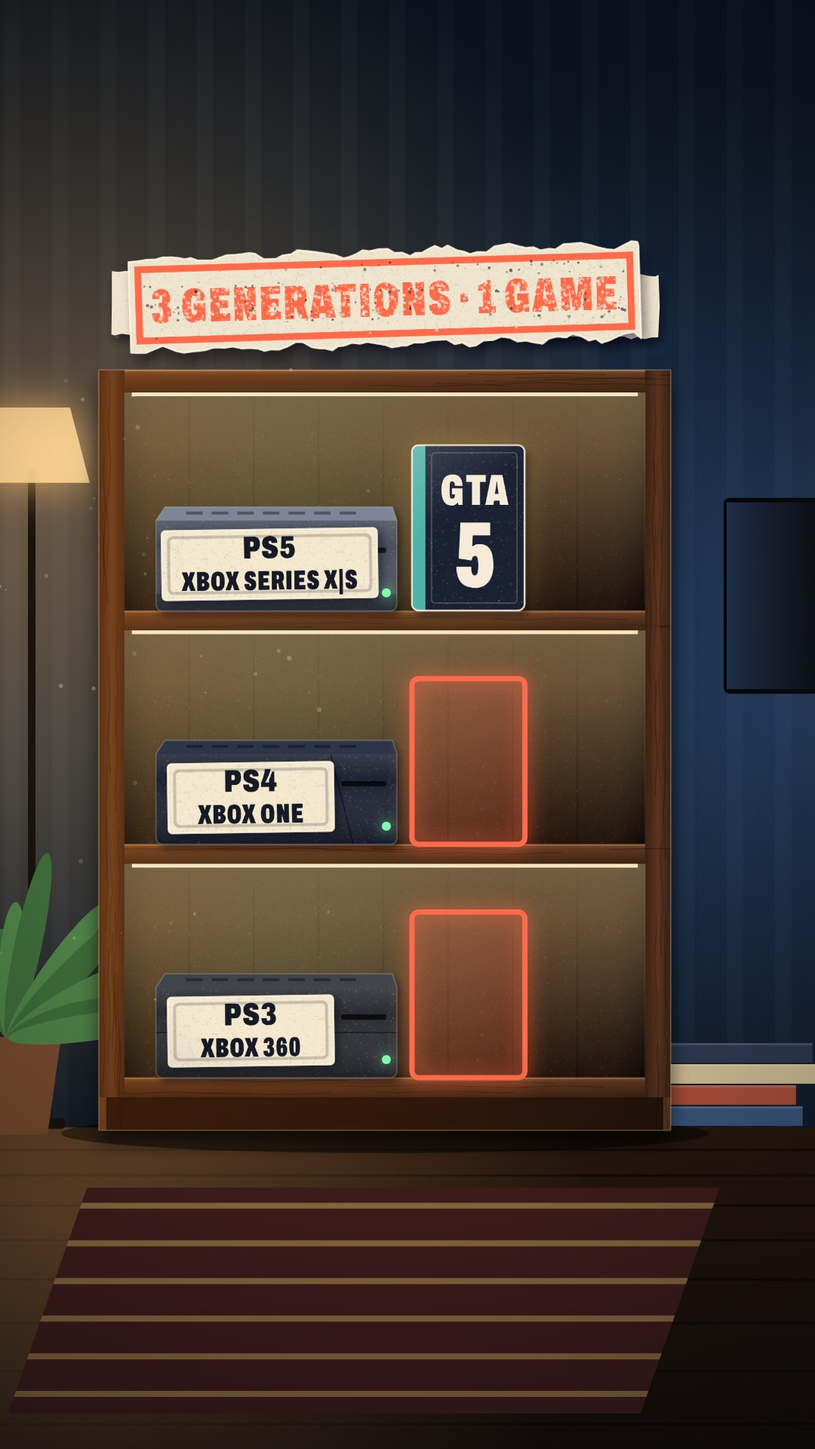
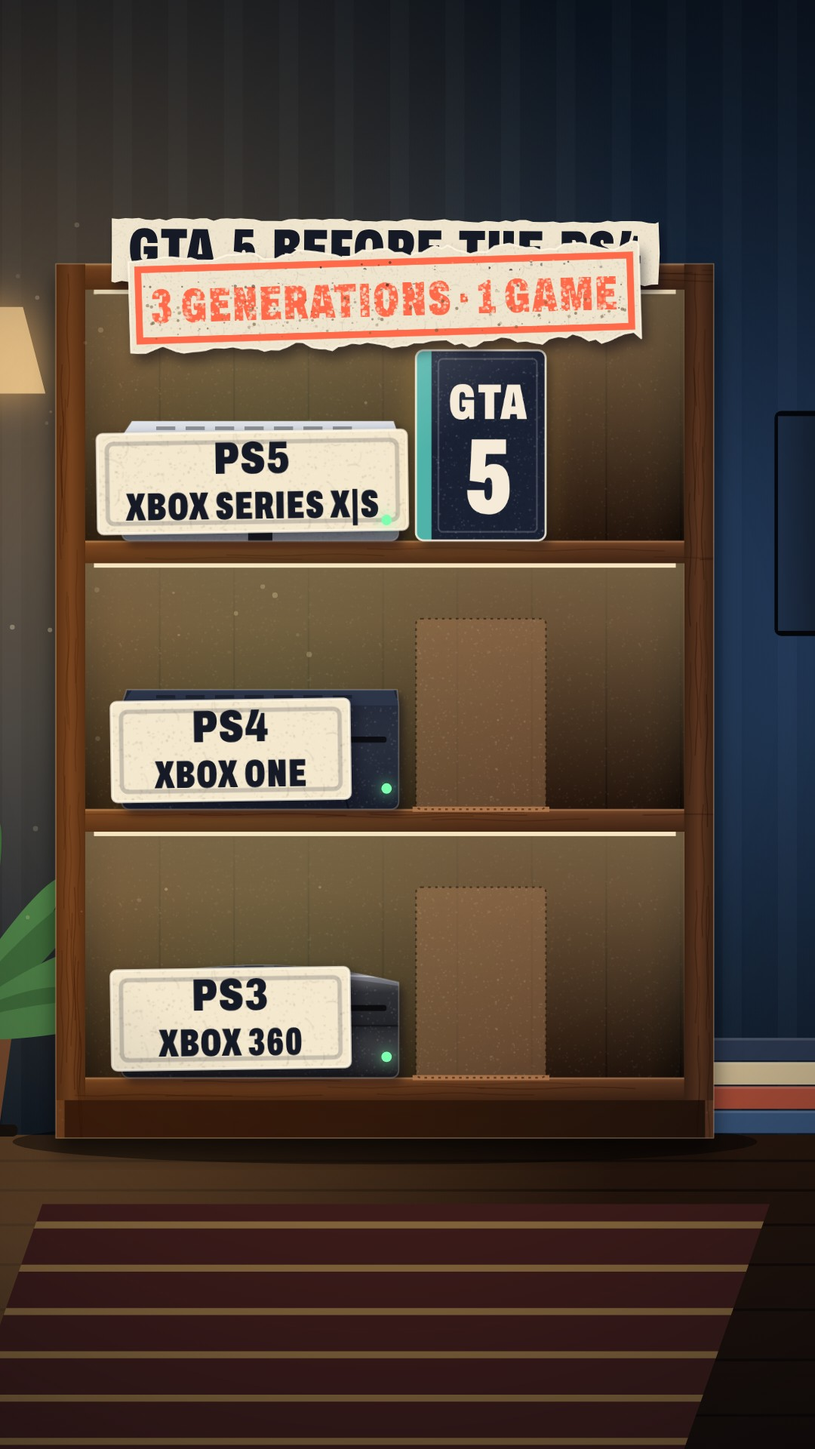
Delta: gta-generations fresh jury r3 7.2/Truth 9.0 PASS, r3 fixes applied, queued for Thu Nov 19 19:00 ET
Claude-Session: https://claude.ai/code/session_0183o4NX3p1hi57PUEsANqko

diff --git a/film/gta-generations/film.js b/film/gta-generations/film.js
@@ -264,14 +264,14 @@
   var SL = { x: 206, w: 320, h: 120 };                          /* console slab: front face, left x */
   var C5 = { x: 546, w: 150, h: 220 }, C6 = { x: 704, w: 150, h: 220 };
   var SLAB = [
-    { front: '#2b2c33', top: '#41434d', n1: 'PS3', n2: 'XBOX 360' },
+    { front: '#232429', top: '#4a4c57', n1: 'PS3', n2: 'XBOX 360' },
     { front: '#1d2333', top: '#2d3549', n1: 'PS4', n2: 'XBOX ONE' },
-    { front: '#454c5c', top: '#7d8596', n1: 'PS5', n2: 'XBOX SERIES X|S' }];
+    { front: '#aeb4bf', top: '#dfe3ea', n1: 'PS5', n2: 'XBOX SERIES X|S' }];
 
   /* ---------- the camera: scale s and pan cx; the bottom shelf never drops under y 1428 ---------- */
   var CAM = { s: 1, cx: 510, cy: 950 };
   function camAt(t) {
-    var s = stepv(t, 1.36, T.CS) * (1 + .006 * osc(t, 3, .7)), cx = stepv(t, 450, T.CX);
+    var s = stepv(t, 1.2, T.CS) * (1 + .006 * osc(t, 3, .7)), cx = stepv(t, 510, T.CX);
     return { s: s, cx: cx, cy: 1410 - (1428 - 950) / s - stepv(t, 0, T.CYO) };
   }
   function toCam(g) { g.translate(510, 950); g.scale(CAM.s, CAM.s); g.translate(-CAM.cx, -CAM.cy); }
@@ -324,16 +324,24 @@
   function slabPiece(i) {
     var S = SLAB[i], w = SL.w, h = SL.h;
     return piece([0, -20, w + 4, h], function (g) {
-      g.beginPath(); g.moveTo(12, -18); g.lineTo(w - 6, -18); g.lineTo(w, 0); g.lineTo(w, h - 10); g.quadraticCurveTo(w, h, w - 10, h); g.lineTo(10, h); g.quadraticCurveTo(0, h, 0, h - 10); g.lineTo(0, 0); g.closePath();
+      g.beginPath(); if (i === 0) { g.moveTo(0, 10); g.quadraticCurveTo(w / 2, -30, w, 10); } else if (i === 1) { g.moveTo(6, -18); g.lineTo(w - 2, -18); g.lineTo(w, 0); } else { g.moveTo(12, -18); g.lineTo(w - 6, -18); g.lineTo(w, 0); }
+      g.lineTo(w, h - 10); g.quadraticCurveTo(w, h, w - 10, h); g.lineTo(10, h); g.quadraticCurveTo(0, h, 0, h - 10); g.lineTo(0, 0); g.closePath();
     }, S.front, { ps: 1.5, edge: 1.6, edgeCol: 'rgba(255,255,255,.22)', sy: 6, blur: 10, extra: function (g) {
       /* top face, a sheen on the front, the disc slot and a vent groove */
-      g.fillStyle = S.top; g.beginPath(); g.moveTo(12, -18); g.lineTo(w - 6, -18); g.lineTo(w, 0); g.lineTo(0, 0); g.closePath(); g.fill();
-      var sh = g.createLinearGradient(0, 0, 0, h); sh.addColorStop(0, 'rgba(255,255,255,.12)'); sh.addColorStop(.3, 'rgba(255,255,255,0)'); sh.addColorStop(1, 'rgba(0,0,0,.25)'); g.fillStyle = sh; g.fillRect(0, 0, w, h);
+      g.fillStyle = S.top; g.beginPath(); if (i === 0) { g.moveTo(0, 10); g.quadraticCurveTo(w / 2, -30, w, 10); g.lineTo(w, 14); g.quadraticCurveTo(w / 2, -12, 0, 14); } else { g.moveTo(12, -18); g.lineTo(w - 6, -18); g.lineTo(w, 0); g.lineTo(0, 0); } g.closePath(); g.fill();
+      var sh = g.createLinearGradient(0, 0, 0, h);
+      /* each generation its own finish: 2013 glossy and curved, 2014 flat matte, 2022 pale with a dark band */
+      if (i === 0) { sh.addColorStop(0, 'rgba(255,255,255,.34)'); sh.addColorStop(.18, 'rgba(255,255,255,.06)'); sh.addColorStop(.5, 'rgba(255,255,255,0)'); sh.addColorStop(1, 'rgba(0,0,0,.4)'); }
+      else if (i === 1) { sh.addColorStop(0, 'rgba(255,255,255,.04)'); sh.addColorStop(1, 'rgba(0,0,0,.18)'); }
+      else { sh.addColorStop(0, 'rgba(255,255,255,.25)'); sh.addColorStop(.4, 'rgba(255,255,255,0)'); sh.addColorStop(1, 'rgba(0,0,0,.22)'); }
+      g.fillStyle = sh; g.fillRect(0, 0, w, h);
+      if (i === 0) { g.strokeStyle = 'rgba(255,255,255,.45)'; g.lineWidth = 2; g.beginPath(); g.moveTo(14, 4); g.quadraticCurveTo(w / 2, -2, w - 8, 4); g.stroke(); }
+      if (i === 2) { g.fillStyle = '#1b1e25'; g.fillRect(w * .5 - 14, 0, 28, h); }
       g.fillStyle = 'rgba(0,0,0,.7)'; rr(g, 246, 36, 60, 7, 3); g.fill();
       g.strokeStyle = 'rgba(0,0,0,.4)'; g.lineWidth = 2;
       if (i === 0) { g.beginPath(); g.moveTo(0, 60); g.lineTo(w, 60); g.stroke(); }
       if (i === 1) { g.beginPath(); g.moveTo(232, 0); g.lineTo(262, h); g.stroke(); }
-      if (i === 2) { g.fillStyle = 'rgba(0,0,0,.25)'; g.fillRect(0, h - 22, w, 22); }
+      if (i === 2) { g.fillStyle = 'rgba(0,0,0,.18)'; g.fillRect(0, h - 22, w, 22); }
       for (var v = 0; v < 7; v++) { g.fillStyle = 'rgba(0,0,0,.35)'; g.fillRect(40 + v * 34, -12, 22, 4); }
     } });
   }
@@ -407,7 +415,7 @@
     P.tX = cardPiece(310, 74, CREAM, [['XBOX SERIES X|S', 46, INK, 3]], { r: 8, ring: TEAL });
     P.ra = cardPiece(400, 56, INK2, [['ROCKSTAR · ANNOUNCED', 38, CREAM, 2]], { r: 6, ring: 'rgba(246,234,216,.5)' });
     P.c6d = cardPiece(318, 140, CREAM, [['NOV 19, 2026', 62, INK, -22], ['ROCKSTAR', 40, RED, 38]], { r: 8, ring: CORAL });
-    P.v = ['PS3 / 360', 'PS4 / ONE', 'PS5 / SERIES', 'PC'].map(function (s, i) { var w = i === 3 ? 108 : 290; return cardPiece(w, 96, CREAM, [[s, 54, INK, 3, null, i === 3 ? 10 : 10]], { r: 10, ring: INK2, after: function (g) { g.fillStyle = BG; g.beginPath(); g.arc(-w / 2 + 20, 0, 8, 0, TAU); g.fill(); } }); });
+    P.v = ['PS3 / 360', 'PS4 / ONE', 'PS5 / SERIES', 'PC'].map(function (s) { var m = mk(4, 4).getContext('2d'); cond(m); font(m, 54, 900); ls(m, 1); var tw = m.measureText(s).width; unst(m); var w = Math.ceil(tw + 44 + 20); return cardPiece(w, 96, CREAM, [[s, 54, INK, 3, null, 12]], { r: 10, ring: INK2, after: function (g) { g.fillStyle = BG; g.beginPath(); g.arc(-w / 2 + 22, 0, 8, 0, TAU); g.fill(); } }); });
   }
 
   /* ---------- drawing helpers ---------- */
@@ -453,7 +461,7 @@
   /* ---------- the hero: where the GTA 5 case is ---------- */
   function caseAt(t) {
     var x = C5.x + C5.w / 2, yb = FLOOR[0], rot = 0, sc = 1;
-    if (t < .6) yb -= 260 * (1 - cd(t, -.45, 5.5));
+    if (t < .6) x += 150 * (1 - cd(t, -.45, 5.5));
     [[T.hop1L, T.hop1, 0, 1], [T.hop2L, T.hop2, 1, 2]].forEach(function (h) {
       if (t >= h[0]) { var u = seg(t, h[0], h[1]); yb = lerp(FLOOR[h[2]], FLOOR[h[3]], eio(u)) - 90 * Math.sin(Math.PI * u); rot = -.14 * Math.sin(Math.PI * u); sc = kn(t, h[1], .06); }
     });
@@ -519,7 +527,8 @@
   /* ---------- the shelf layer: slabs, discs, ghosts, the cases (world space) ---------- */
   function slabX(i, t) { var tin = i === 0 ? -9 : T.slabIn[i]; return SL.x + 760 * (1 - cd(t, tin, 9)); }
   function shelves(g, t) {
-    var i, lights = [0, 1, 2].map(function (j) { return seg(t, T.L[j], T.L[j] + .18); });
+    var i, lights = [0, 1, 2].map(function (j) { return seg(t, T.L[j], T.L[j] + .18) * (1 - offK(t, j)); });
+    hookLight(g, t);
     /* strip lights under each board (bottom, mid, top) for "three console generations" */
     lights.forEach(function (lk, j) {
       if (lk <= 0) return; var yt = j === 2 ? BK.top + 30 : FLOOR[j + 1] + BOARD;
@@ -532,34 +541,40 @@
       chalk(g, SL.x, FLOOR[j] - SL.h, SL.w, SL.h, k, aS);
       chalk(g, C5.x, FLOOR[j] - C5.h, C5.w, C5.h, seg(t, T.chalk[j] + .3, T.chalk[j] + 1.0), aC);
     });
-    /* GTA 6's spot on the top shelf */
-    chalk(g, C6.x, FLOOR[2] - C6.h, C6.w, C6.h, seg(t, T.out6, T.out6 + .7), 1 - seg(t, T.land6 - .05, T.land6 + .1), 'rgba(255,107,74,.95)');
+    /* GTA 6 is planted on the top shelf at frame 0, under its own small spot; it lifts out as the story starts */
+    var p6 = 1 - seg(t, T.lift6, T.lift6 + .3);
+    if (p6 > 0) { var sp6 = g.createRadialGradient(C6.x + 75, FLOOR[2] - 60, 10, C6.x + 75, FLOOR[2] - 60, 230); sp6.addColorStop(0, 'rgba(255,170,130,' + (.34 * p6).toFixed(3) + ')'); sp6.addColorStop(1, 'rgba(255,170,130,0)'); g.fillStyle = sp6; g.fillRect(C6.x - 160, BK.top + 30, 470, FLOOR[2] - BK.top - 30);
+      g.fillStyle = 'rgba(255,190,150,' + (.22 * p6).toFixed(3) + ')'; g.beginPath(); g.ellipse(C6.x + 75, FLOOR[2] - 2, 110, 10, 0, 0, TAU); g.fill(); }
+    /* the 2013 disc, half into the PS3-era slab's top slot from frame 0 (the game is being played); it drops home on "Xbox 360" */
+    var dk = eio(seg(t, T.disc0, T.disc0 + .3));
+    if (dk < 1) { g.save(); g.beginPath(); g.rect(SL.x, BK.top, SL.w, FLOOR[0] - SL.h - 4 - BK.top); g.clip(); disc(g, SL.x + 240, FLOOR[0] - SL.h - 6 + 64 * dk, 48, 1, 1); g.restore(); }
     /* slabs, their LEDs and a glow on the back panel when they are on */
     for (i = 0; i < 3; i++) {
       if (i > 0 && t < T.slabIn[i] - .02) continue;
-      var x = slabX(i, t), yb = FLOOR[i], on = t >= T.on[i] ? seg(t, T.on[i], T.on[i] + .2) : 0;
-      if (i === 0) on *= t >= T.chirp0 ? 1 : .55;
+      var x = slabX(i, t), yb = FLOOR[i], on = i === 0 ? 1 : (t >= T.on[i] ? seg(t, T.on[i], T.on[i] + .2) : 0);
+      if (i < 2) on *= 1 - offK(t, i);
       if (on > 0) { var bg = g.createRadialGradient(x + 160, yb - 60, 10, x + 160, yb - 60, 330); bg.addColorStop(0, 'rgba(125,255,176,' + (.12 * on).toFixed(3) + ')'); bg.addColorStop(1, 'rgba(125,255,176,0)'); g.fillStyle = bg; g.fillRect(Math.max(IN0, x - 200), yb - 300, Math.min(IN1, x + 520) - Math.max(IN0, x - 200), 300); }
       put(g, P.slab[i], x, yb - SL.h);
       if (t >= T.lab[i] - .02 && sy(yb) < 1440) {
         var lk = eo(seg(t, T.lab[i], T.lab[i] + .14)), ls0 = lerp(1.4, 1, lk) * kn(t, T.lab[i] + .12, .05), nr = NOREC; NOREC = nr || lk < 1;
-        var hideK = i === 2 ? 1 - seg(t, T.tg1 - .1, T.tg1 + .1) * (1 - seg(t, T.undim, T.undim + .25)) : 1; if (hideK < 1) NOREC = true;
-        g.save(); g.globalAlpha *= fin(t, T.lab[i], .05) * hideK; g.translate(x + (i === 2 ? 8 + 143 : 16 + 110), yb - SL.h + 58); g.rotate(-.015 + .05 * (1 - lk)); g.scale(ls0, ls0); putW(g, P.lab[i], 0, 0); g.restore(); NOREC = nr;
+        var hideK = (i === 2 ? 1 - seg(t, T.tg1 - .1, T.tg1 + .1) * (1 - seg(t, T.undim, T.undim + .25)) : 1) * (1 - seg(t, T.v[i] - .1, T.v[i] + .1)); if (hideK < 1) NOREC = true;
+        var big = 1 + .25 * bigK(t);
+        g.save(); g.globalAlpha *= fin(t, T.lab[i], .05) * hideK; g.translate(x + (i === 2 ? 8 + 143 : 16 + 110), yb - SL.h + 58 - 6 * (big - 1) / .25); g.rotate(-.015 + .05 * (1 - lk)); g.scale(ls0 * big, ls0 * big); putW(g, P.lab[i], 0, 0); g.restore(); NOREC = nr;
       }
-      led(g, x + 306, yb - 24, on, t, i * 1.7, bump(t, T.first + i * .15, .35));
+      led(g, x + 306, yb - 24, on, t, i * 1.7, Math.max(bump(t, T.first + i * .15, .35), i === 0 ? bump(t, T.disc0 + .28, .45) : 0));
     }
     /* ghosts: where the case stood before each hop */
     [[T.hop1L, 0], [T.hop2L, 1]].forEach(function (h) {
-      if (t < h[0] + .1) return; var lit = seg(t, T.L[h[1]], T.L[h[1]] + .15) * (1 - seg(t, T.dim, T.dim + .4));
+      if (t < h[0] + .1) return; var lit = seg(t, T.L[h[1]], T.L[h[1]] + .15) * (1 - offK(t, h[1]));
       chalk(g, C5.x, FLOOR[h[1]] - C5.h, C5.w, C5.h, 1, .45 * seg(t, h[0] + .1, h[0] + .4) * (1 - lit), 'rgba(246,234,216,.6)');
-      if (lit > 0) { g.save(); g.globalAlpha *= lit; g.shadowColor = 'rgba(255,107,74,1)'; g.shadowBlur = 26 * (1 + .6 * bump(t, T.L[h[1]], .5)); g.strokeStyle = CORAL; g.lineWidth = 7; rr(g, C5.x, FLOOR[h[1]] - C5.h, C5.w, C5.h, 9); g.stroke(); g.fillStyle = 'rgba(255,107,74,.12)'; g.fill(); g.restore(); }
+      /* lit: the clean patch the case left in the dust on the back panel and the board (something stood here) */
+      if (lit > 0) { var fb = 1 + .5 * bump(t, T.L[h[1]], .5); g.save(); g.globalAlpha *= lit;
+        g.fillStyle = 'rgba(110,68,40,.42)'; rr(g, C5.x, FLOOR[h[1]] - C5.h, C5.w, C5.h, 6); g.fill();
+        g.globalAlpha *= .5; g.fillStyle = g.createPattern(GRAIN, 'repeat'); g.fill(); g.globalAlpha /= .5;
+        g.fillStyle = 'rgba(255,214,160,' + (.16 * fb).toFixed(3) + ')'; g.fill();
+        g.fillStyle = 'rgba(176,120,78,.9)'; g.fillRect(C5.x - 4, FLOOR[h[1]] - 3, C5.w + 8, 6);
+        g.strokeStyle = 'rgba(30,16,8,.55)'; g.lineWidth = 2; g.setLineDash([3, 5]); rr(g, C5.x, FLOOR[h[1]] - C5.h, C5.w, C5.h, 6); g.stroke(); g.restore(); }
     });
-    /* the 2013 disc: peeks out of the case, then slides into the bottom slab's slot */
-    if (t >= T.disc0 && t < T.disc0 + .9) {
-      var d1 = eio(seg(t, T.disc0, T.disc0 + .3)), d2 = eio(seg(t, T.disc0 + .3, T.disc0 + .85));
-      var dx = lerp(lerp(611, 600, d1), SL.x + 276, d2), dy = lerp(lerp(1300, 1176, d1), FLOOR[0] - SL.h + 40, d2);
-      disc(g, dx, dy, 54 * lerp(1, .62, d2), lerp(1, .14, d2), 1 - seg(t, T.disc0 + .78, T.disc0 + .86));
-    }
     /* the 2022 copy: a disc rises out of the case, flips into a download arrow, a bar fills: digital */
     if (t >= T.disc3 && t < T.pull3 + .4) {
       var a3 = 1 - seg(t, T.pull3, T.pull3 + .35), p = eio(seg(t, T.disc3, T.disc3 + .5)), ax = lerp(621, 236, p), ay = lerp(FLOOR[2] - 120, FLOOR[2] + 13, p) - 70 * Math.sin(Math.PI * p), bs = lerp(1, .5, p);
@@ -579,6 +594,12 @@
     /* the GTA 5 case, and GTA 6 dropping onto the top shelf */
     var c = caseAt(t), glow = Math.max(bump(t, T.glow, 1.6) * .9, seg(t, T.L[2], T.L[2] + .15) * (1 - seg(t, T.dim, T.dim + .4)) * .8);
     drawCase(g, P.c5, c.x, c.yb, c.rot, c.sc, glow);
+    if (t < T.lift6 + .4) {
+      var q6 = seg(t, T.lift6, T.lift6 + .36), nq = NOREC; NOREC = nq || q6 > 0;
+      g.save(); g.globalAlpha *= 1 - seg(t, T.lift6 + .2, T.lift6 + .36);
+      drawCase(g, P.c6, C6.x + C6.w / 2, lerp(FLOOR[2], FLOOR[2] - 470, q6 * q6), -.05 * q6, 1, .32 * (1 - q6));
+      g.restore(); NOREC = nq;
+    }
     if (t >= T.land6 - .4) {
       var u6 = seg(t, T.land6 - .36, T.land6), y6 = lerp(FLOOR[2] - 470, FLOOR[2], u6 * u6), nr6 = NOREC; NOREC = nr6 || u6 < 1;
       drawCase(g, P.c6, C6.x + C6.w / 2, y6, .05 * (1 - u6), kn(t, T.land6, .06), .7 * bump(t, T.date6, 1.4));
@@ -586,10 +607,32 @@
     }
   }
   /* the lower two shelves go dark for "just one" */
+  /* "just one": the bottom compartment's light clicks off, then the middle one's, 0.25 s apart; back on for the vote */
+  function offK(t, j) { if (j > 1) return 0; var a = j === 0 ? T.off0 : T.off1; return seg(t, a, a + .05) * (1 - seg(t, T.undim, T.undim + .5)); }
   function dimLower(g, t) {
-    var k = seg(t, T.dim, T.dim + .5) * (1 - seg(t, T.undim, T.undim + .5)); if (k <= 0) return;
-    g.fillStyle = 'rgba(5,8,13,' + (.74 * k).toFixed(3) + ')'; g.fillRect(IN0 - 2, FLOOR[2] + BOARD, IN1 - IN0 + 4, FLOOR[0] + BOARD - FLOOR[2] - BOARD + 10);
+    [0, 1].forEach(function (j) { var k = offK(t, j); if (k <= 0) return;
+      g.fillStyle = 'rgba(5,8,13,' + (.74 * k).toFixed(3) + ')'; g.fillRect(IN0 - 2, FLOOR[j + 1] + BOARD, IN1 - IN0 + 4, FLOOR[j] - FLOOR[j + 1] + (j === 0 ? 10 : 0)); });
+    /* the hook: the PS4 shelf sits unlit while the PS3-era shelf plays */
+    var hk = hookK(t) * (1 - seg(t, T.boxO - .3, T.boxO + .2));
+    if (hk > 0) { g.fillStyle = 'rgba(5,8,13,' + (.4 * hk).toFixed(3) + ')'; g.fillRect(IN0 - 2, FLOOR[2] + BOARD, IN1 - IN0 + 4, FLOOR[1] - FLOOR[2] - BOARD); }
   }
+  /* 1 through the hook and "when" (and the loop's run-up), fading as the camera pulls back on "So how many" */
+  function hookK(t) { return 1 - seg(t, T.pullQ, T.pullQ + .9); }
+  /* playing GTA 5 on the bottom shelf: the compartment brighter, a spot pool on the case, a flickering screen spill */
+  function hookLight(g, t) {
+    var k = hookK(t); if (k <= 0) return;
+    var yt = FLOOR[1] + BOARD, yb = FLOOR[0];
+    g.save(); g.beginPath(); g.rect(IN0, yt, IN1 - IN0, yb - yt); g.clip();
+    var ex = g.createLinearGradient(0, yt, 0, yb); ex.addColorStop(0, 'rgba(255,214,160,' + (.2 * k).toFixed(3) + ')'); ex.addColorStop(1, 'rgba(255,214,160,' + (.07 * k).toFixed(3) + ')'); g.fillStyle = ex; g.fillRect(IN0, yt, IN1 - IN0, yb - yt);
+    var cx5 = C5.x + C5.w / 2, sp = g.createRadialGradient(cx5, yb - 80, 10, cx5, yb - 80, 260); sp.addColorStop(0, 'rgba(255,226,170,' + (.42 * k).toFixed(3) + ')'); sp.addColorStop(1, 'rgba(255,226,170,0)'); g.fillStyle = sp; g.fillRect(IN0, yt, IN1 - IN0, yb - yt);
+    var fl = .7 + .18 * osc(t, 53, .4) + .12 * osc(t, 97, 1.9) * osc(t, 31, .2);
+    var tv = g.createRadialGradient(IN1 + 40, yb - 40, 20, IN1 + 40, yb - 40, 640); tv.addColorStop(0, 'rgba(150,200,255,' + (.36 * k * fl).toFixed(3) + ')'); tv.addColorStop(.5, 'rgba(255,190,140,' + (.12 * k * fl).toFixed(3) + ')'); tv.addColorStop(1, 'rgba(150,200,255,0)'); g.fillStyle = tv; g.fillRect(IN0, yt, IN1 - IN0, yb - yt);
+    g.restore();
+    /* the spill on the board in front */
+    g.fillStyle = 'rgba(255,220,170,' + (.22 * k * fl).toFixed(3) + ')'; g.beginPath(); g.ellipse(cx5 - 60, yb + 6, 300, 12, 0, 0, TAU); g.fill();
+  }
+  /* the slab labels grow in the two wide shots ("how many generations", "three console generations") */
+  function bigK(t) { return Math.max(seg(t, T.pullQ, T.pullQ + .6) * (1 - seg(t, start('gen2') - .3, start('gen2') + .2)), seg(t, T.pull3, T.pull3 + .6) * (1 - seg(t, T.off0 - .2, T.off0))); }
   /* the desk props: monitor and the wall calendar with its static date slips */
   function desk(g, t) {
     if (t < T.panA - .1 || t > T.panB + .6) return;
@@ -618,10 +661,12 @@
   function cards(g, t) {
     /* hook: the sealed PS4 box glides onto the mid shelf; its shipping label and GTA 5's date land in the pause */
     var bx = 300 + 260 * (1 - cd(t, -.6, 3.5)) + 1100 * eio(seg(t, T.boxO, T.boxO + .45));
-    if (t < T.boxO + .5) { var nb = NOREC; NOREC = nb || t > T.boxO; put(g, P.box, bx, FLOOR[1] - 200 + 0, 0); card(g, P.cB, bx + 150, FLOOR[1] - 62, -.02, T.cB, 1e9, t, { slam: true }); NOREC = nb; }
+    if (t < T.boxO + .5) { var nb = NOREC; NOREC = nb || t > T.boxO; put(g, P.box, bx, FLOOR[1] - 200 + 0, 0);
+      var bd = .3 * hookK(t) * (1 - seg(t, T.cB - .1, T.cB + .1)); if (bd > 0) { g.fillStyle = 'rgba(5,8,13,' + bd.toFixed(3) + ')'; g.fillRect(bx, FLOOR[1] - 200, 300, 200); }
+      card(g, P.cB, bx + 150, FLOOR[1] - 62, -.02, T.cB, 1e9, t, { slam: true }); NOREC = nb; }
     card(g, P.cA, 380, 1214, -.03, T.cA, T.cAO, t, { slam: true, tape: true, dir: -1 });
     card(g, P.c2, 380, 894, -.025, T.c2, T.panA - .05, t, { slam: true, tape: true, dir: -1, od: .3 });
-    card(g, P.c3, 370, 590, .02, T.c3, T.pull3, t, { slam: true, tape: true, dir: -1 });
+    card(g, P.c3, 380, 586, .02, T.c3, T.pull3, t, { slam: true, tape: true, dir: -1, s: .85 });
     /* the hero stamp on the full bookcase */
 
     /* GTA 6's platforms: two tags swing down on strings from the top shelf, and the owner */
@@ -665,7 +710,7 @@
   })();
   var STRESS;
   function stressed(w) { for (var i = 0; i < STRESS.length; i++) if (Math.abs(STRESS[i] - w.t0) < .02) return true; return false; }
-  var CAPY = 400;
+  var CAPY = 400, CAPY_HOOK = 330;
   function capWord(w) { return w.w.toUpperCase().replace(/\.$/, ''); }
   function captions(g, t) {
     t = tq(t);
@@ -689,7 +734,7 @@
     lay2(); fixLines();
     function widest() { return Math.max.apply(null, lw) - gap; }
     while ((lines.length > 2 || widest() > maxw) && cpx > 56) { cpx -= 4; font(g, cpx, 900); ws = up.map(function (u) { return g.measureText(u).width; }); gap = cpx * .26; lay2(); fixLines(); }
-    var lh = cpx * 1.32, y0 = CAPY - (lines.length - 1) * lh / 2 + cpx * .36;
+    var lh = cpx * 1.32, y0 = (card0.id === 'hook' ? CAPY_HOOK : CAPY) - (lines.length - 1) * lh / 2 + cpx * .36;
     lines.forEach(function (ln, li) {
       var tw = lw[li] - gap, x = CXc - tw / 2, y = y0 + li * lh + (1 - k) * 30, seed = Math.round(card0.t0 * 100) + li * 7;
       var r = mulberry(seed), x0 = x - 22, x1 = x + tw + 22, yt = y - cpx * .86, yb = y + cpx * .24, rot = (r() - .5) * .025;
@@ -750,7 +795,7 @@
     function Tx(id, text, a, b) { if (t >= a && t < b) o.push({ id: id, text: text, x0: 0, y0: 0, x1: 0, y1: 0 }); }
     Tx('cA', 'SEP 17, 2013', T.cA + .16, T.cAO); Tx('cA2', 'GTA 5 · TAKE-TWO', T.cA + .16, T.cAO);
     Tx('box', 'PS4', T.box + .55, T.boxO); Tx('cB', 'NOV 15, 2013', T.cB + .16, T.boxO); Tx('cB2', 'PS4 · SONY (US)', T.cB + .16, T.boxO);
-    SLAB.forEach(function (S, i) { var e = i === 2 ? T.tg1 - .1 : T.dim; Tx('l' + i + 'a', S.n1, T.lab[i] + .14, e); Tx('l' + i + 'b', S.n2, T.lab[i] + .14, e); if (i === 2) { Tx('l2a', S.n1, T.undim + .25, 99); Tx('l2b', S.n2, T.undim + .25, 99); } });
+    SLAB.forEach(function (S, i) { var e = i === 2 ? T.tg1 - .1 : (i === 0 ? T.off0 : T.off1); Tx('l' + i + 'a', S.n1, T.lab[i] + .14, e); Tx('l' + i + 'b', S.n2, T.lab[i] + .14, e); });
     Tx('c2', 'NOV 18, 2014', T.c2 + .16, T.panA); Tx('c22', 'TAKE-TWO', T.c2 + .16, T.panA);
     Tx('mon', 'PC', T.panA + .5, T.panB); Tx('mon2', 'NOT A CONSOLE GENERATION', T.panA + .5, T.panB); Tx('calH', 'GTA 5 · PC VERSION', T.panA + .5, T.panB);
     Tx('jan', 'JAN 27, 2015', Math.max(T.jan + .16, T.panA + .5), T.panB); Tx('mar', 'MAR 24, 2015', T.mar + .16, T.panB); Tx('apr', 'APR 14, 2015', T.apr + .16, T.panB); Tx('tt', 'TAKE-TWO', T.tt + .2, T.panB);
@@ -774,7 +819,7 @@
     T.lab = []; T.on = []; T.slabIn = [-9, 0, 0]; T.chalk = [0, 0, 0];
     T.lab[0] = at('when', 'ps3') - .05; T.on[0] = T.lab[0] + .1;
     T.boxO = at('when', 'xbox') + .02; T.cAO = T.boxO;
-    T.disc0 = at('when', 'xbox') - .1;
+    T.disc0 = at('when', 'xbox') - .05; T.lift6 = start('when') - .5;
     T.chirp0 = G('chirp0', after('when'), 'chirp', .3, 1.4);
     /* q: pull back to the whole bookcase; chalk outlines on the two empty shelves; the PS4-era slab slides into its outline in the pause */
     T.chalk[1] = at('q', 'how') - .05; T.chalk[2] = at('q', 'generations');
@@ -806,7 +851,9 @@
     T.st = G('st', start('three') - .2, 'stamp', .3, 2.2, { m: .03 }); T.bounce = G('bounce', after('three'), 'hop', .3, 1.0);
     /* but: GTA 6's spot is chalked on the top shelf; the lower shelves go dark on "just one"; the stamp peels; GTA 6 drops in the pause */
     T.out6 = at('but', 'gta') - .05; T.dim = at('but', 'just') - .05;
-    T.land6 = G('land6', after('but') + .05, 'hop', .3, 1.8); T.stO = Math.max(T.st + .16 + 2.75, start('but') - .2);
+    /* GTA 6 drops back onto the top shelf on its own name; the lower lights click off in the pause, each with a relay tick */
+    T.land6 = wend('but', '6') - .25;
+    T.off0 = G('off0', wend('but', 'one') + .22, 'relay', .2, 1, { m: .04 }); T.off1 = G('off1', T.off0 + .25, 'relay', .12, .8, { m: .04 }); T.stO = Math.max(T.st + .16 + 2.75, start('but') - .2);
     /* plat: the owner, then the two platform tags swing down on their names */
     T.ra = at('plat', 'announced') - .12; T.tg1 = at('plat', 'ps5') - .05; T.tg2 = at('plat', 'xbox') - .05;
     G('tgS', wend('plat', 's') + .2, 'pin', .35, 3, { m: .04 });
@@ -818,9 +865,10 @@
     T.undim = start('end') - .3; T.first = at('end', 'first') - .05;
     G('seam', T.seamC - .14, 'door', .3, 12);
     /* camera keys: [time, value, duration] */
-    T.CS = [[0, 1.45, 2.6], [start('when') - .1, 1.53, 3.2], [start('q') - .1, 1.0, 1.0], [T.slabIn[1] - .1, 1.08, 1.0], [T.panA, 1.0, .5], [T.panB, 1.08, .45], [T.pull3, 1.0, .8], [start('but'), 1.06, 2.0], [start('plat') - .3, 1.25, 1.1], [at('date', '2026') - .05, 1.28, 1.4], [start('end') - .3, 1.0, 1.2]];
-    T.CYO = [[start('plat') - .3, 262, 1.1], [start('end') - .3, 0, 1.2]];
-    T.CX = [[start('when') - .1, 470, 3.2], [start('q') - .1, 510, 1.0], [T.panA, 1610, .5], [T.panB, 510, .45], [start('plat') - .3, 530, 1.1], [start('end') - .3, 610, 1.2]];
+    T.pullQ = lastw('when') + .1;
+    T.CS = [[0, 1.23, 2.6], [start('when') - .1, 1.53, 2.4], [T.pullQ, 1.15, 1.0], [T.slabIn[1] - .1, 1.2, 1.0], [T.panA, 1.0, .5], [T.panB, 1.08, .45], [T.pull3, 1.15, .8], [start('but'), 1.2, 2.0], [start('plat') - .3, 1.25, 1.1], [T.dc - .3, 1.1, 1.3], [at('date', '2026'), 1.06, 1.2], [start('end') - .3, 1.0, 1.2]];
+    T.CYO = [[T.panB, 30, .45], [T.pull3, 0, .8], [start('plat') - .3, 262, 1.1], [T.dc - .3, 140, 1.3], [at('date', '2026'), 110, 1.2], [start('end') - .3, 0, 1.2]];
+    T.CX = [[0, 548, 2.9], [start('when') - .1, 470, 2.4], [T.pullQ, 510, 1.0], [T.panA, 1610, .5], [T.panB, 510, .45], [start('plat') - .3, 530, 1.1], [start('end') - .3, 610, 1.2]];
     STRESS = [['hook', 'before'], ['when', '2013'], ['q', 'generations'], ['gen2', '2014'], ['pc', 'slipping'], ['gen3', '2022'], ['three', 'three'], ['but', 'one'], ['plat', 'announced'], ['date', 'november'], ['end', 'first']].map(function (p) { return at(p[0], p[1]); });
     CAPS[0].s = -1; CAPS[0].words = CAPS[0].words.filter(function (w) { return norm(w.w) !== 'came'; });
     CAPS.forEach(function (c) { if (c.id === 'but') { var L = c.words[c.words.length - 1]; L.w = L.w.replace(/\.$/, ''); c.words.push({ w: 'generation.', t0: L.t0, t1: L.t1 }); } });
@@ -838,7 +886,7 @@
     ctx.globalAlpha = 1; ctx.drawImage(acc, 0, 0);
   }
   /* ---------- sound: room foley written into the pauses; no music (Isac adds a platform sound) ---------- */
-  BODY.slam = .3; BODY.click = .08; BODY.pin = .1; BODY.snap = .14; BODY.tick = .04; BODY.hop = .16; BODY.chirp = .2; BODY.blip = .24; BODY.scrawl = .28; BODY.door = .3; BODY.thock = .12; BODY.stamp = .18; BODY.swish = .26;
+  BODY.slam = .3; BODY.click = .08; BODY.pin = .1; BODY.snap = .14; BODY.tick = .04; BODY.hop = .16; BODY.chirp = .2; BODY.blip = .24; BODY.scrawl = .28; BODY.door = .3; BODY.relay = .05; BODY.thock = .12; BODY.stamp = .18; BODY.swish = .26;
   function SCORE(ac) {
     var sr = ac.sampleRate, rnd = mulberry(7);
     var master = ac.createGain(); master.gain.value = .8;
@@ -868,10 +916,12 @@
     /* a marker circling a date */
     function scrawl(t, g) { band(t, t + .28, 2600, 4200, .05 * g, .03 * g, 3, .2); tick(t, .5 * g, 3000); }
     /* the cabinet door: a wooden slide and a soft stop */
+    /* a relay: a dry click with a small body */
+    function relay(t, g) { tick(t, 1.3 * g, 1700); thump(t, .18 * g, 340); }
     function doorS(t, g) { band(t, t + .3, 300, 1400, .1 * g, .03 * g, .8, -.3, 'lowpass'); thump(t + .26, .3 * g, 160); }
-    var LEVEL = { stamp: 1, slam: 1, swish: 22, thock: 5, pin: 4, hop: 3, chirp: 6, blip: 6, scrawl: 10, door: 6 };
+    var LEVEL = { stamp: 1, slam: 1, swish: 22, thock: 5, pin: 4, hop: 3, chirp: 6, blip: 6, scrawl: 10, door: 6, relay: 4 };
     var TRIM = window.SFX_TRIM || {};
-    var TYPE_DB = window.SFX_TYPE_DB || { stamp: -20, slam: -16, swish: -17.5, thock: -21, pin: -21, hop: -16, chirp: -12, blip: -12, scrawl: -16, door: -16 };
+    var TYPE_DB = window.SFX_TYPE_DB || { stamp: -20, slam: -16, swish: -17.5, thock: -21, pin: -21, hop: -16, chirp: -12, blip: -12, scrawl: -16, door: -16, relay: -21 };
     EV.forEach(function (e) {
       var g = (e.g == null ? 1 : e.g) * (LEVEL[e.type] || 1) * Math.pow(10, ((TRIM[e.id] || 0) + (TYPE_DB[e.type] || 0)) / 20);
       if (e.type === 'stamp') stamp(e.t, g);
@@ -884,6 +934,7 @@
       else if (e.type === 'blip') blip(e.t, g);
       else if (e.type === 'scrawl') scrawl(e.t, g);
       else if (e.type === 'door') doorS(e.t, g);
+      else if (e.type === 'relay') relay(e.t, g);
     });
     /* no music: Isac adds a trending sound on the platform; the film ships voice + sound effects */
     var MUSIC = false;

diff --git a/film/gta-generations/jury-r3.md b/film/gta-generations/jury-r3.md
@@ -1,0 +1,52 @@
+# Jury r3: gta-generations ("GTA 5 Came Before the PS4"), fresh eyes after the post-r2 fixes
+
+File judged: /mnt/project-files/factory/gta-generations/gta-generations-vo.mp4 (1080x1920, 30 fps, 39.2 s). Posting Thu Nov 19 2026 19:00 ET (GTA 6 launch evening). jury-r1.md and jury-r2.md were not read.
+
+## Scores
+| # | Criterion | Score |
+|---|---|---|
+| 1 | Hook | 6.5 |
+| 2 | Retention | 7.0 |
+| 3 | Clarity | 7.5 |
+| 4 | Truth | 9.0 |
+| 5 | Motion and design craft | 7.0 |
+| 6 | Voice and sound | 7.0 |
+| 7 | Loop and ending | 7.5 |
+| 8 | Shareability | 6.5 |
+| | **Overall (mean)** | **7.2** (7.25, not rounded up) |
+
+**Verdict: fix then post.** Gate (overall >= 7.0 and Truth >= 8.5): **PASS**. Previous Delta pass, gta-storylength remake, scored 7.3, so this one is level at best, not better.
+
+## Measured
+- pacecheck (upload file): 0 hard cuts, motion 0-1 s 0.451, 0-3 s 0.38, median 0.182, 14.2 % still frames, no frozen stretch. OK.
+- Loudness: -14.1 LUFS integrated, LRA 2.4 LU, true peak -2.6 dBFS. No black frames.
+- Frame 0: 4-word caption `GTA 5 BEFORE THE PS4`. No cap triggered.
+- Whisper and readcheck not re-run (setup log had no DONE). I relied on the director's figures: 11/11, WER 0.00, readcheck 32/32.
+
+## Truth (checked at primary sources on 2026-11-18)
+- Take-Two 8-K, Sept 18 2013: "Launched on September 17 for the PlayStation 3 ... and the Xbox 360". Confirmed.
+- Sony release, 2013-11-15: "PlayStation 4 Launches Across the United States and Canada". Confirmed; the `(US)` on the box label is the right scope.
+- Take-Two Oct 29 2014 table: GTA V Xbox One, PS4 November 18, 2014; PC January 27, 2015. Feb 3 2015: PC March 24, 2015. May 2015 table: PC April 14, 2015. All three confirmed, and "It kept slipping" is safe under any way of counting.
+- Take-Two May 16 2022: "On March 15th, Rockstar Games launched Grand Theft Auto V digitally on PlayStation 5 and Xbox Series X|S". Confirmed, and the card's `DIGITAL` matches.
+- Take-Two Nov 9 2026 lineup: GTA VI PS5, Xbox Series X|S, November 19, 2026. rockstargames.com/VI (curl today): "Coming November 19, 2026", PlayStation 5 and Xbox Series X|S, no PC string. Confirmed.
+- No rumor, no leak, no footage, no music. Every number on screen has a source in BRIEF.md. The SAFE-EDIT fail list is clean.
+- Small risks, not docked hard: "Rockstar has announced PS5 and Xbox Series X and S" reads a little stale on launch evening, but it is still true. The caption on its own (`GTA 5 BEFORE THE PS4`, no verb) depends on the 3 s date cards to scope it; they do arrive.
+
+## Fixes by impact
+1. **0.0-1.0 s, packaging (SAFE-EDIT rule 6).** "GTA 6" is neither in the first spoken second nor in the planned title, and the film posts on the night GTA 6 launches, when every search is "GTA 6". The first GTA 6 word comes at 25.7 s. Change: title "GTA 5 Came Before the PS4 (GTA 6 Is Out Tonight)" or similar, with GTA first. Put the coral `GTA 6` case on screen at frame 0, top shelf, no words, already lit, so the payoff is planted. If you can re-voice, make the hook "G T A six is out. G T A five came before the P S four." (+~1.1 s; drop `q` per the BRIEF cut order to win the time back).
+2. **0.0-2.5 s, wow on frame 0 (raises the hook).** The still is dim brown on brown: a dark slab, a case and a box, and nothing proves "before" with the sound off. Make it literal: the bottom slab is ON (green light, the disc half in, a warm TV-glow spill on the shelf) and GTA 5 is visibly being played, while the PS4 box sits sealed and taped above, unlit. Raise the bottom compartment's exposure by about 25 % and add a spot pool on the case. Then the frame reads "playing GTA 5 while the PS4 is still in the box" with no text at all, which is the film's best image and a second poster.
+3. **28.6-36.2 s, dead middle on one shelf.** About 7.5 s pushed in on the top shelf: PS5 and SERIES tags, a chip, then a date card in the same spot (sheet frames 30-35 are nearly the same). Retention dips just before the end question. Shorten `plat` to "Rockstar lists PS5 and Xbox Series X and S." (BRIEF cut order, about -0.6 s), and add a physical event on "just one" (25.7-27 s): the lower two compartments' lights click off one by one, bottom then middle, 0.25 s apart, each with a relay tick in the 0.4 s pause. Then the camera pull at 33 s instead of holding the push.
+4. **19.9-21.6 s, collision.** The `MAR 15, 2022 · TAKE-TWO · DIGITAL` card's top edge touches the two-line caption box ("AND XBOX SERIES X AND S"), and its bottom sits on the PS5 slab's label. Three plates are stacked in about 200 px. Hold the card until the caption peels (line end + 0.1 s), or scale it to 0.85 and move it 40 px down and 60 px right so there is at least 24 px of clear space from both caption and label.
+5. **36.0-39.0 s, end tags double-label the slabs.** Each vote tag (`PS5 / SERIES`, `PS4 / ONE`, `PS3 / 360`) pins straight on top of the slab label that already says the same thing, so you see two labels per shelf, and `•PS5 / SERIES` crowds its hole dot against the P. Fade the slab labels while the tags hang (as already done in `plat`), or pin each tag into the empty ghost-outline slot on the right of its compartment, with 16 px inner padding on the tag.
+6. **8.0-9.5 s and 23.2-25.6 s, type size.** In the wide shots the slab labels (`PS3 / XBOX 360`, etc.) fall to about 20-24 px cap height, under the 36 px floor. That is the one frame ("three console generations") where you need to read them. Cap the pull-back at about 1.15x of the current wide, or scale the labels 1.5x in the wide only.
+7. **5.0-7.2 s, a still-ish hold.** Once the dates leave, the bottom-shelf shot holds with little new (sheet frames 6 and 7 are near-identical, and the caption is gone at 7.0). Land the disc-into-slab slide and the green power light on "Xbox 360" (about 5.6 s), then pull back by 6.6 s, so something changes at least every 1.2 s.
+8. **38.9-39.2 s, seam.** The PS4 box drops across the GTA 5 case and hides its "GTA" for about 6 frames before frame 0. Land the box by 38.9 s, then slide the case in, so the loop frame never covers the hero.
+9. **Voice, 7.2 s.** "So how many generations is it on?" is the weakest line, a filler question in Ming's flat read. Either cut it (fix 1 needs the time), or sharpen it to "And it wasn't done." (5 words, a re-hook rather than a quiz).
+
+## Generic or AI-made tells
+- The console slabs are interchangeable grey bricks. They read as a stock "cozy room" vector kit more than as hand-built paper props; there are no edge highlights, no cut-paper shadows, no wear. Give each generation's slab its own shape and finish (thick, glossy and curved; flat matte; tall and white-grey, all generic) so climbing the shelves also reads as time passing.
+- The coral glowing outline rectangles at 22.9-27 s look like a UI focus ring, not an object on a shelf. Make them a dust-free patch on the shelf (a lighter rectangle on the wood), which says "something sat here" physically.
+- The torn-paper caption strips are the house look. Fine, but they now sit on every Delta film, so the set has to carry the novelty (see fix 2).
+
+## LESSONS repeats
+None that cost a full point: numbers stay on their own cards, the calendar slams and never rolls, there is no past tense on GTA 6, no PC claim, the end vote is not highlighted, and the poster is in a pause with the stamp landed. What the director already logged: the bookcase carcass passes x 90 during pushes. It is set, not a prop, so it was not docked.

diff --git a/film/gta-generations/BRIEF.md b/film/gta-generations/BRIEF.md
@@ -127,3 +127,4 @@ Sound (own SFX, no music): case-hop thunk (the native move's sound), disc slide,
 - Rail scan note: the bookcase carcass (set, not a prop) runs past x 90 while the camera is pushed in on the top shelf (28.6–36.2 s) and during the `q` push (6.9–7.6 s); all text and props stay inside x 90–930 (boundscheck clean).
 - Round-2 checks: readcheck 32/32 ok (vote tags restaggered 0.17→0.10 s so PS5 / SERIES holds 2.2 s), boundscheck clean, in-mix Whisper 11/11 at WER 0.00, −13.9 LUFS (voice-only −14.2), pacecheck OK on the re-encoded upload file after a slow push on "2026" broke a 1.03 s still. Uploads re-encoded two-pass 1600k: 9.19 MB and 8.81 MB.
 - 2026-11-17 (director) **post-r2 fixes (film held after 2 rounds; next run decides on a fresh jury).** Jury r2 fixes 1–5 only, no voice change. (1) Date cards on their own shelves: `NOV 18, 2014 · TAKE-TWO` now in the middle (PS4) compartment above the slab, clear of its label; `MAR 15, 2022 · TAKE-TWO · DIGITAL` in the top (PS5) compartment, landing 0.3 s after the case's hop settles (≈19.95 s), bottom edge clear of the PS5 slab, exits left so it never crosses the GTA 5 case; the download badge and bar moved onto the top shelf's front lip. (2) `PC` vote tag hangs on the wall right of the bookcase (end camera cx 510→610), no slab under it, inside x 90–930; it lands 0.45 s after the others so it never crosses the rail while the camera moves. (3) Hits: the three GTA 6 tag pins (inside "announced / PS5 / Xbox") replaced by one pin in the 31.4–31.9 s gap; the four vote pins inside "Which one did" replaced by one thock at 35.78 s (tags now fan out in that gap; the date card's exit swish dropped); seam door raised to −21 dB abs; APR stamp raised to −18 dB abs; the 25.1 s bounce lowered ~4 dB. No hit falls inside the voice; every hit ≥ 5 dB under the median voice phrase. (4) Date caption reflows to `GTA 6:` / `NOVEMBER 19, 2026`. (5) The 22.7 s impact burst is drawn behind the stamp and squashed vertically so it no longer crosses the type or the shelves. Checks: readcheck 32/32, boundscheck clean, in-mix Whisper 11/11 WER 0.00, −14.1 LUFS (voice-only −14.2), pacecheck OK on both re-encoded uploads (9.19 / 8.82 MB), no black. Pixel-checked 11.8, 12.5, 19.5, 20.5, 21.5, 22.5, 33.5, 37.5 s from the final upload file.
+- 2026-11-18 (director) **post-r3 picture/sound fixes (jury r3 7.2 PASS, Truth 9.0).** No voice change, no wording change, no new claim or number; `vo/` untouched (mix rebuilt from the committed `vo/gta-generations-vo.mp3`, sample-aligned with the r3 voice-only master). (1) Frame 0 shows the coral `GTA 6` case on the top shelf under its own small spot, no added words; hook camera widened (s 1.36→1.20, cx 510) and the hook caption raised to y 330 so the case sits clear under it; the case lifts out of the shelf in the hook pause (≈2.6 s) and drops back on "GTA 6" (≈26.4 s). Caption text unchanged (`GTA 5 BEFORE THE PS4`). (2) Frame 0 reads "playing GTA 5 while the PS4 is still boxed": bottom compartment brighter, a spot pool on the GTA 5 case, a flickering screen spill, the PS3-era slab on (green LED) with the disc half into its top slot; the middle compartment and the sealed PS4 box sit darker until the box label lands. (3) On "just one" the bottom then the middle compartment's lights click off 0.25 s apart in the pause (27.9 / 28.15 s), each with a new `relay` tick, LEDs drop to red standby; GTA 6's drop moved onto its own name; camera now pulls back from the top-shelf push at ≈32.8 s and again on "2026" instead of holding. (`plat` shortening skipped: voice.) (4) `MAR 15, 2022` card scaled 0.85 and set between the caption and the PS5 label; camera lowered 30 px for that shot so both gaps are ≥ 24 px. (5) Slab labels fade as each vote tag lands (no double labels); vote tags sized from their text with 16 px padding and room for the hole. (6) Wide shots capped at s 1.15 (was 1.0) and slab labels grow 1.25x in the two wides, so `XBOX 360` etc. read at ≈36 px cap. (7) The disc drops home on "Xbox 360" with an LED pulse, and the pull-back starts at 6.5 s (was 7.1). (8) Seam: the GTA 5 case now slides in along the bottom shelf instead of dropping through the PS4 box, so nothing covers it. Optional "generic" notes done cheaply: the three slabs got their own finish (glossy curved / flat matte / pale with a dark band); the coral glowing ghost outlines became a clean dust-free patch on the back panel and board. Fix 9 (re-voice `q`) skipped as instructed.

diff --git a/film/gta-generations/seo.md b/film/gta-generations/seo.md
@@ -1,0 +1,44 @@
+# SEO and posting text: GTA 5 came before the PS4
+
+Channel: **Delta** (YouTube @deltaisac) only. Slot Thu Nov 19 2026 19:00 ET (2026-11-20 00:00 UTC), GTA 6 launch evening. Upload `gta-generations-vo.mp4` (voice + sound effects, no music). Altered content: No. Made for kids: No. English (US), Gaming. Facts and sources: `BRIEF.md` (re-opened 2026-11-17 by the researcher and 2026-11-18 by jury r3; rockstargames.com/VI re-checked 2026-11-18: November 19, 2026).
+
+## YouTube Shorts title
+GTA 5 Came Before the PS4. GTA 6 Is Here 🤯
+
+## Cover text
+GTA 5 BEFORE THE PS4
+
+## Description
+GTA 5 came out before the PS4. It launched September 17, 2013 on PS3 and Xbox 360; the PS4 launched in the US and Canada on November 15, 2013.
+
+Then it came out again: PS4 and Xbox One on November 18, 2014. PC players waited while the date kept slipping (January 27, then March 24), until April 14, 2015. Then PS5 and Xbox Series X|S, digitally, on March 15, 2022. Three console generations, one game.
+
+GTA 6 starts on just one: Rockstar announced PS5 and Xbox Series X|S, for November 19, 2026.
+
+Which console did you first play GTA 5 on? Tell me in the comments.
+
+Sources:
+- Take-Two, Sept 18, 2013 (GTA V launched Sept 17 on PS3 and Xbox 360): https://www.sec.gov/Archives/edgar/data/946581/000110465913070819/a13-20938_1ex99d1.htm
+- Take-Two, Oct 29, 2013 (next-generation consoles coming in November): https://www.sec.gov/Archives/edgar/data/946581/000110465913078751/a13-23088_1ex99d1.htm
+- Sony, Nov 15, 2013, PS4 launches across the US and Canada: https://sonyinteractive.com/en/?p=3005758
+- Take-Two, Oct 29, 2014 (PS4 and Xbox One Nov 18, 2014; PC Jan 27, 2015): https://www.sec.gov/Archives/edgar/data/946581/000110465914074828/a14-23299_1ex99d1.htm
+- Take-Two, Feb 3, 2015 (PC moved to March 24, 2015): https://www.sec.gov/Archives/edgar/data/946581/000110465915006277/a15-3670_1ex99d1.htm
+- Take-Two, May 2015 (PC April 14, 2015): https://www.sec.gov/Archives/edgar/data/946581/000110465915039036/a15-12207_1ex99d1.htm
+- Take-Two, May 16, 2022 (launched digitally on PS5 and Xbox Series X|S on March 15): https://www.sec.gov/Archives/edgar/data/946581/000162828022014496/ttwo4q22earningsrelease.htm
+- Take-Two, Nov 9, 2026 (GTA VI, PS5 and Xbox Series X|S, November 19, 2026): https://www.sec.gov/Archives/edgar/data/946581/000162828026072175/ttwo2q27earningsrelease.htm
+- Rockstar Games, GTA VI: https://www.rockstargames.com/VI
+
+"Three console generations" counts the console families GTA 5 launched on; PC is not counted as one. Grand Theft Auto is a trademark of Take-Two Interactive.
+
+Made with our own graphics. No Rockstar footage. Not affiliated with Rockstar Games or Take-Two.
+
+#GTA5 #GTA6 #GTAV #PS4 #Shorts
+
+## Keywords
+GTA 5 release date · GTA 5 PS4 · GTA 5 PS3 · GTA 5 PS5 · GTA 6 platforms · GTA 6
+
+## Playlist
+GTA History
+
+## Pinned comment
+Which console did you first play GTA 5 on: PS3/360, PS4/One, PS5/Series, or PC?
